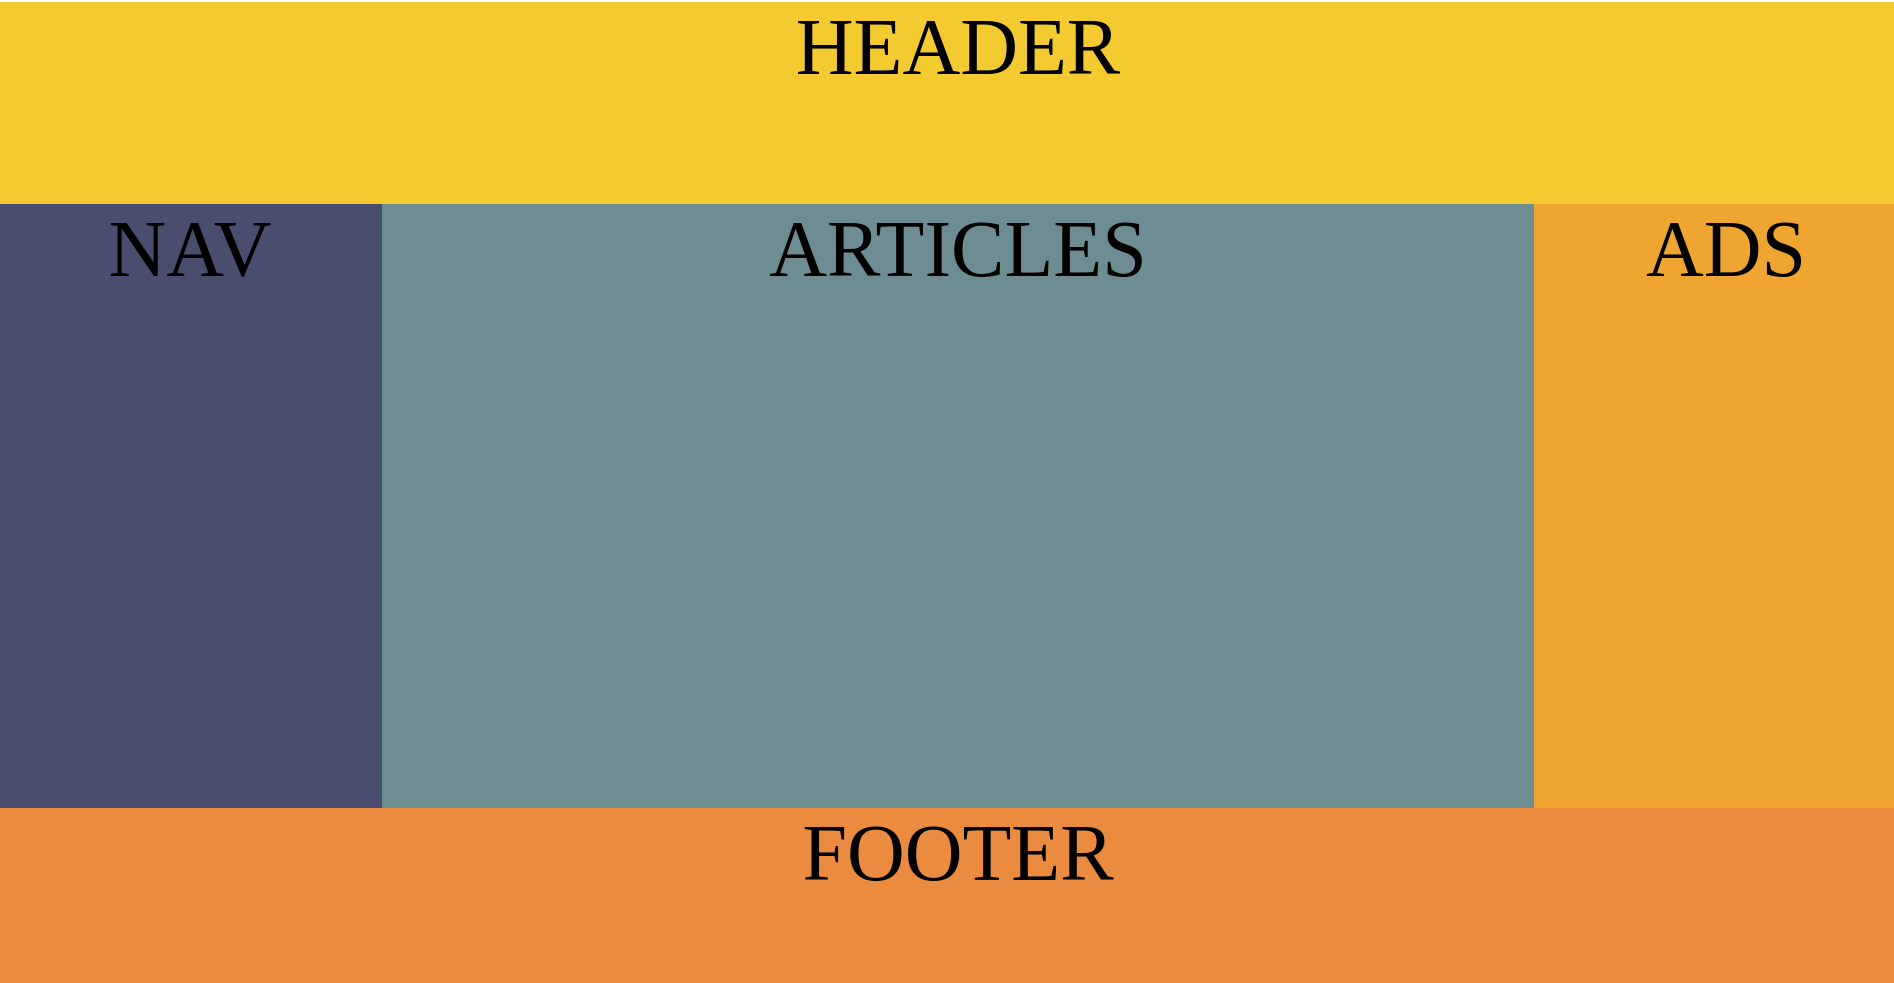
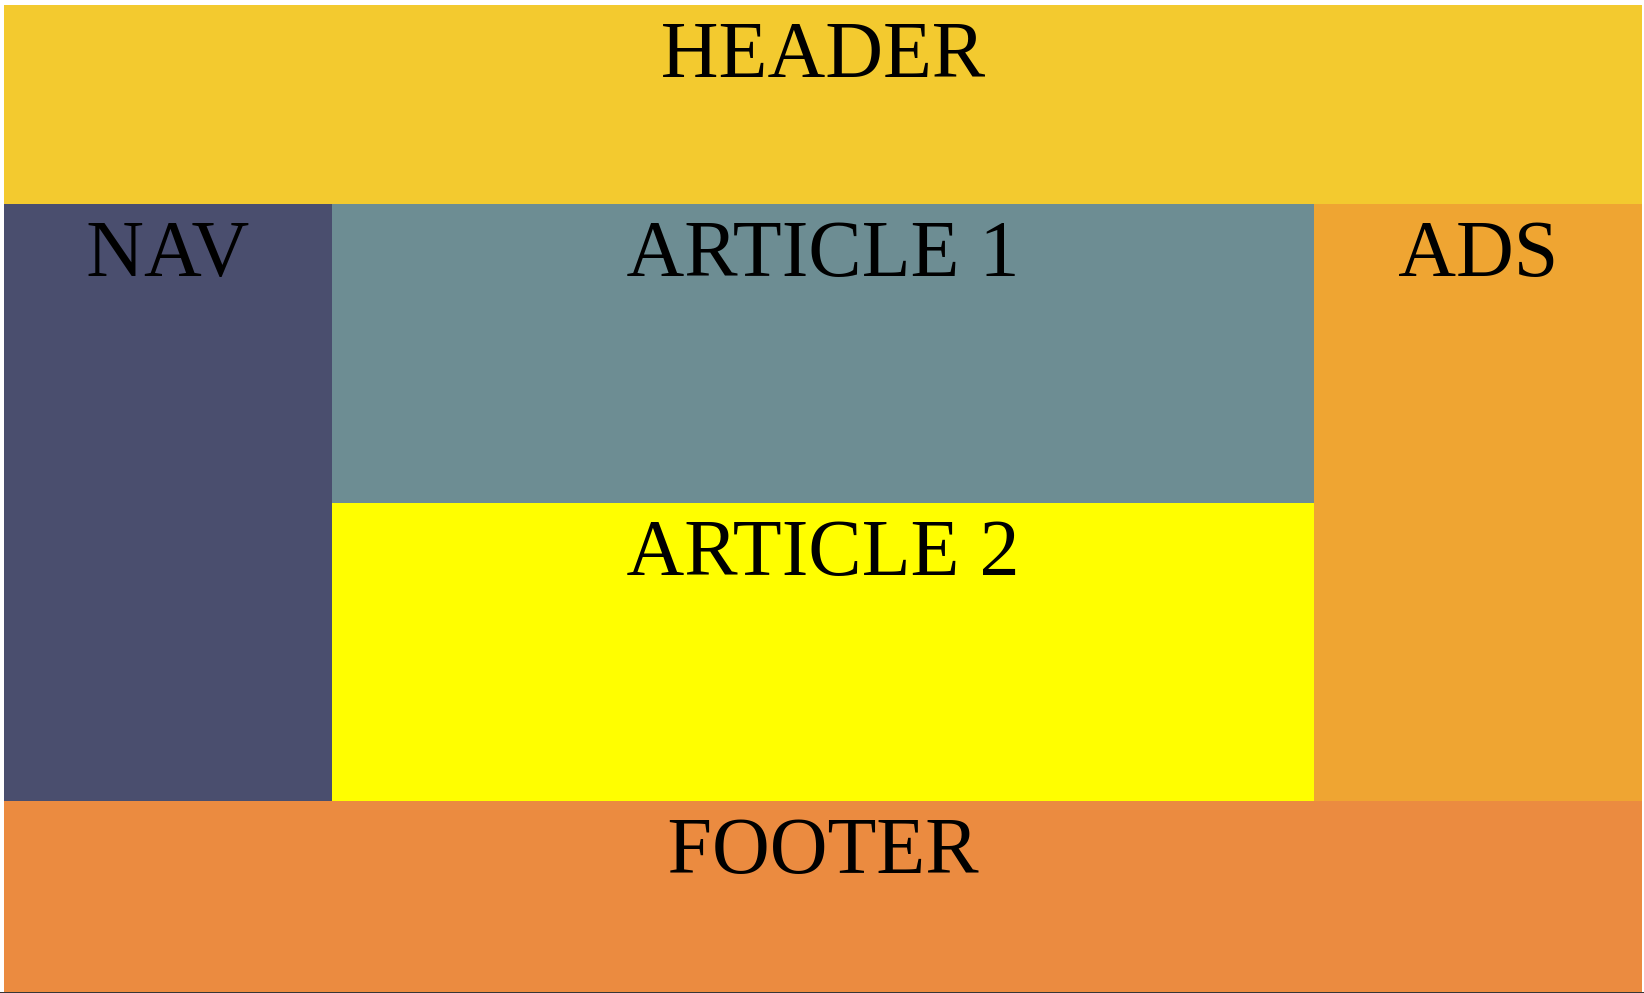
Finishes desktop solution and adds solution image.

diff --git a/style.css b/style.css
@@ -3,31 +3,46 @@
 }
 
 #app {
+  display: grid;
+  grid-template-rows: 20% 30% 30% 20%;
+  grid-template-columns: 20% 60% 20%;
+  grid-template-areas: 
+    "hdr hdr hdr"
+    "nav ar1 ads"
+    "nav ar2 ads"
+    "ftr ftr ftr"
+  ;
   font-size: 5em;
   text-align: center;
   height: 100vh;
 }
 
 #header {
+  grid-area: hdr;
   background-color: #f3ca40;
 }
 
 #nav {
+  grid-area: nav;
   background-color: #4b4e6d;
 }
 
 #article-1 {
+  grid-area: ar1;
   background-color: #6a8d92;
 }
 
 #article-2 {
+  grid-area: ar2;
   background-color: yellow;
 }
 
 #ads {
+  grid-area: ads;
   background-color: #f2a541;
 }
 
 #footer {
+  grid-area: ftr;
   background-color: #f08a4b;
 }
